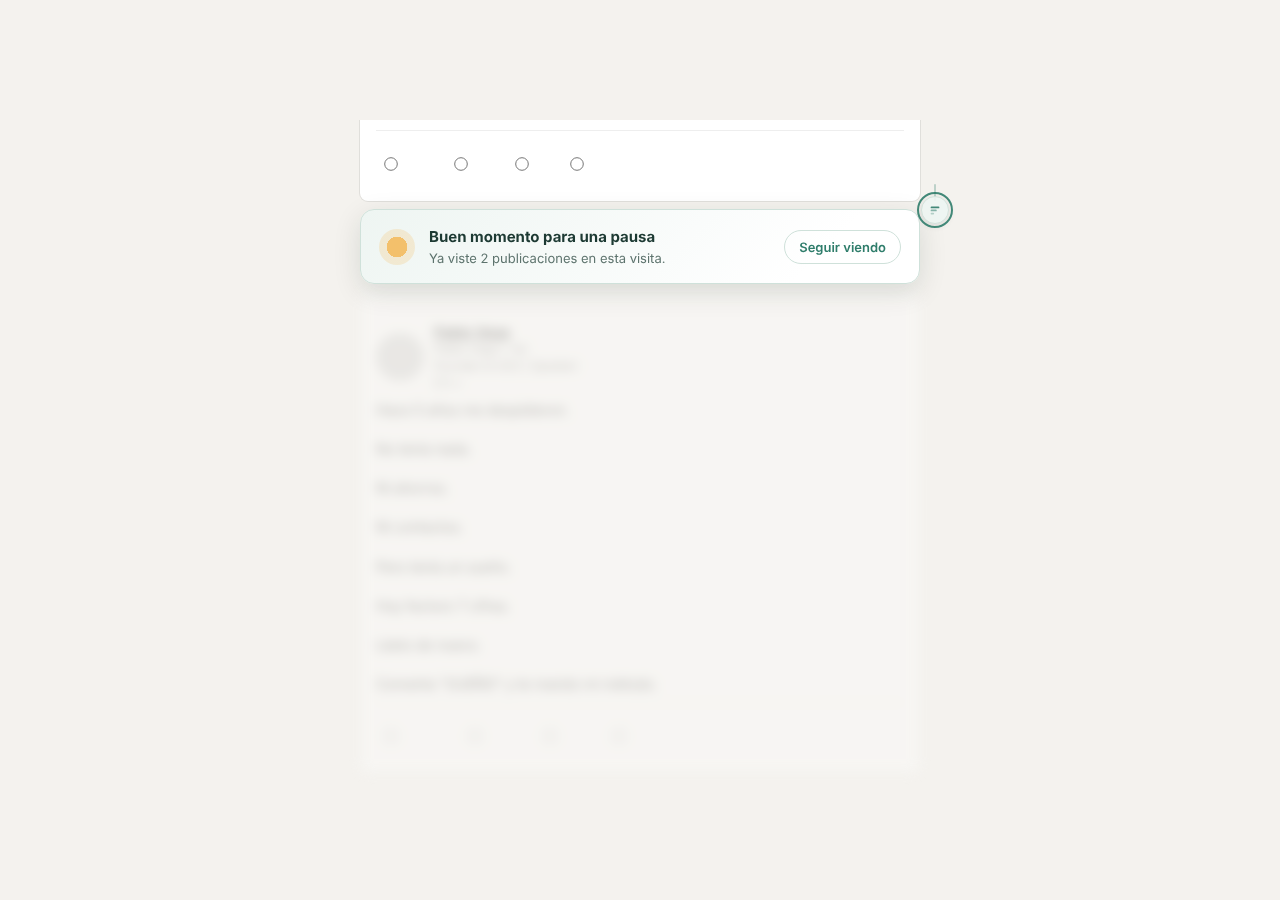
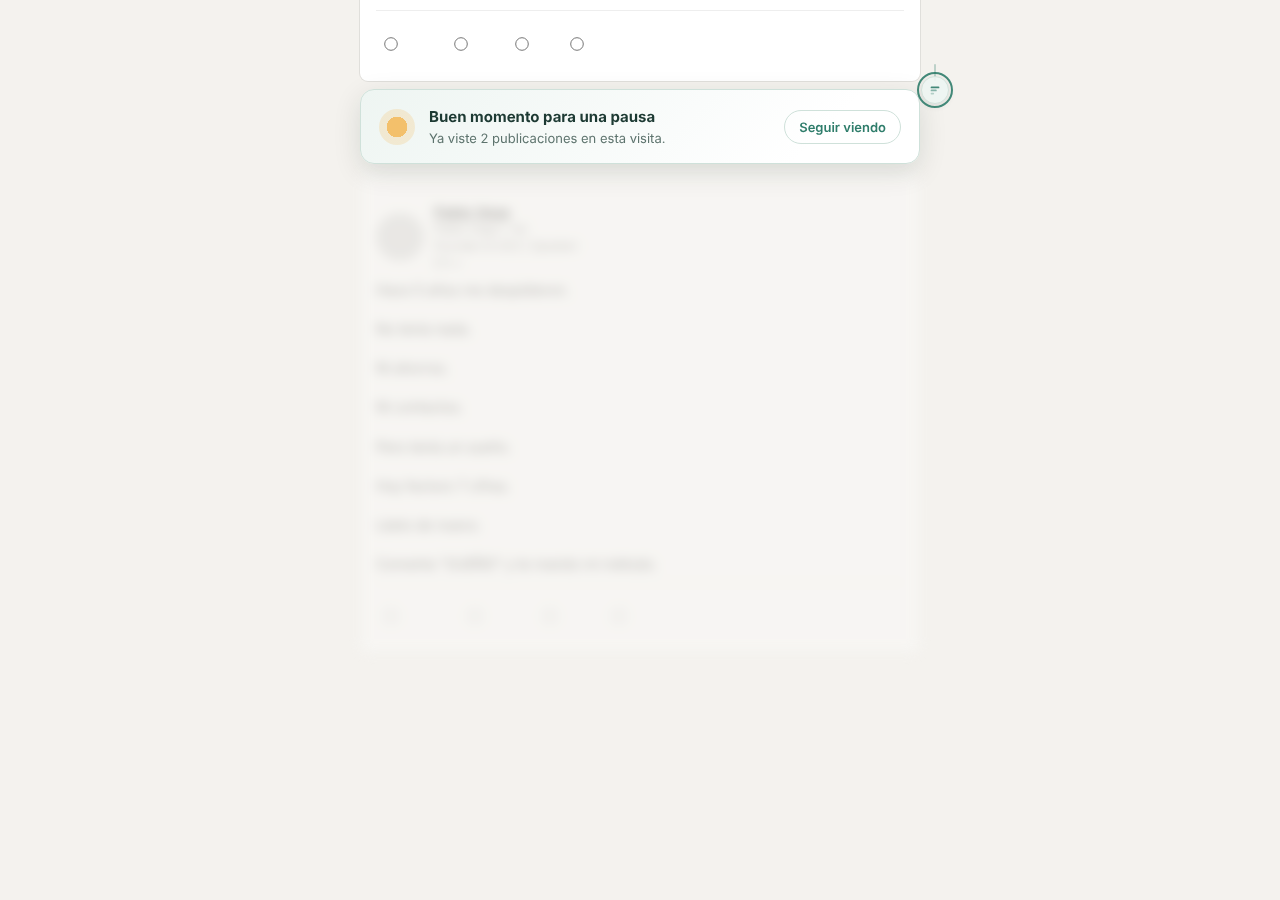
Medir y aplicar efectos sobre la tarjeta, no sobre envoltorios display:contents (v0.2.3)
En el LinkedIn real los envoltorios de cada post usan display: contents:
miden 0x0 y no aceptan opacidad ni filtros. Por eso el botón de Sereno
nunca encontraba un post en pantalla y quedaba oculto, y el atenuado y el
desenfoque no se veían. Ahora se usa la primera caja real (la tarjeta).
La réplica del feed reproduce display: contents.

Claude-Session: https://claude.ai/code/session_01KWnJ7EkcoDG6TupWQwbSNM

diff --git a/src/content/content.js b/src/content/content.js
@@ -101,6 +101,19 @@
     return Array.from(el.querySelectorAll(SEL.postHeading)).filter(isPostHeading);
   }
 
+  /**
+   * El elemento que de verdad se dibuja. Los envoltorios de LinkedIn usan
+   * `display: contents` (no tienen caja: miden 0×0 y no aceptan opacidad ni
+   * filtros), así que para medir y para efectos visuales usamos la tarjeta.
+   */
+  function boxOf(el) {
+    if (!el || getComputedStyle(el).display !== 'contents') return el;
+    const card = el.querySelector('[role="listitem"]');
+    if (card && getComputedStyle(card).display !== 'contents') return card;
+    for (const c of el.querySelectorAll('*')) if (getComputedStyle(c).display !== 'contents') return c;
+    return el;
+  }
+
   function hasContent(el) {
     return (el.textContent || '').trim().length > 0 || !!el.querySelector('img, video, svg, iframe');
   }
@@ -234,6 +247,8 @@
 
   function reset(root) {
     root.classList.remove('sereno-hidden', 'sereno-dim', 'sereno-labeled', 'sereno-walled');
+    const box = boxOf(root);
+    if (box && box !== root) box.classList.remove('sereno-dim', 'sereno-labeled', 'sereno-walled');
     root.removeAttribute(ATTR);
     root.removeAttribute('data-sereno-len');
     root.removeAttribute('data-sereno-visible');
@@ -339,10 +354,10 @@
       return;
     }
     if (result.verdict === 'dim') {
-      root.classList.add('sereno-dim');
+      boxOf(root).classList.add('sereno-dim');
       makeStrip(root, result, 'dim');
     } else if (result.verdict === 'label') {
-      root.classList.add('sereno-labeled');
+      boxOf(root).classList.add('sereno-labeled');
       makeStrip(root, result, 'label');
     }
 
@@ -404,7 +419,7 @@
     const line = TOP + (vh - TOP) * 0.4;
     const candidates = Array.from(document.querySelectorAll('[data-sereno-author]')).filter((p) => {
       const v = p.getAttribute(ATTR);
-      return v && v !== 'hide' && !p.classList.contains('sereno-walled');
+      return v && v !== 'hide' && !boxOf(p).classList.contains('sereno-walled');
     });
     // "Arriba de todo" = ningún contenedor del feed está desplazado. LinkedIn
     // hace scroll en un contenedor interno, así que window.scrollY no alcanza.
@@ -412,7 +427,7 @@
     let best = null;
     let bestDist = Infinity;
     for (const p of candidates) {
-      const r = p.getBoundingClientRect();
+      const r = boxOf(p).getBoundingClientRect();
       if (r.height === 0 || r.bottom <= TOP || r.top >= vh) continue;
       // Arriba de todo de la página, se está leyendo el primer post visible.
       if (atTop) return p;
@@ -445,7 +460,7 @@
       dock.btn.setAttribute('aria-label', t('menuOpen', [name]));
       dock.btn.title = t('menuOpen', [name]);
     }
-    const r = post.getBoundingClientRect();
+    const r = boxOf(post).getBoundingClientRect();
     const vh = window.innerHeight;
     const SIZE = 28;
     // Al costado derecho de la tarjeta, en el margen; si no hay lugar, adentro.
@@ -561,7 +576,8 @@
           (entries) => {
             for (const en of entries) {
               if (!en.isIntersecting) continue;
-              const h = en.target.getAttribute('data-sereno-hash');
+              const holder = en.target.closest('[data-sereno-hash]');
+              const h = holder && holder.getAttribute('data-sereno-hash');
               if (h && !seenBefore.has(h)) seenQueue.add(h);
               io.unobserve(en.target);
             }
@@ -584,11 +600,11 @@
     if (root.hasAttribute('data-sereno-visible')) return;
     root.setAttribute('data-sereno-visible', '1');
     root.setAttribute('data-sereno-hash', hash);
-    if (io) io.observe(root);
+    if (io) io.observe(boxOf(root));
 
     if (caught.card) {
       // Todo lo que viene después de la tarjeta queda en pausa.
-      root.classList.add('sereno-walled');
+      boxOf(root).classList.add('sereno-walled');
       return;
     }
     const cfg = settings.caughtUp;
@@ -601,10 +617,10 @@
     if (caught.oldRun.length >= OLD_RUN) {
       const first = caught.oldRun[0];
       placeCard(first, 'old', caught.visible - caught.oldRun.length);
-      for (const r of caught.oldRun) r.classList.add('sereno-walled');
+      for (const r of caught.oldRun) boxOf(r).classList.add('sereno-walled');
     } else if (cfg.limit > 0 && caught.visible > cfg.limit) {
       placeCard(root, 'limit', cfg.limit);
-      root.classList.add('sereno-walled');
+      boxOf(root).classList.add('sereno-walled');
     }
   }
 

diff --git a/tests/fixtures/feed-2026.html b/tests/fixtures/feed-2026.html
@@ -14,6 +14,8 @@
   html, body { height: 100%; overflow: hidden; }
   main { height: 100vh; overflow-y: auto; }
   .k4dfeed { padding-bottom: 900px; }
+  /* Como el LinkedIn real: los envoltorios no generan caja propia */
+  [data-lazy-mount-id], [data-display-contents="true"] { display: contents; }
   body { margin:0; background:#f4f2ee; font: 14px/1.4 -apple-system, Segoe UI, Roboto, sans-serif; color:#1d1d1d; }
   .k4dfeed { max-width: 560px; margin: 24px auto; }
   .k4dcard { background:#fff; border-radius:8px; box-shadow:0 0 0 1px rgba(0,0,0,.08); margin-bottom:8px; padding:12px 16px; }

diff --git a/README.md b/README.md
@@ -55,6 +55,7 @@ Los textos se editan en `scripts/strings.mjs`, nunca a mano en `_locales/`. Los 
 ## Cuando LinkedIn cambie su HTML
 Se va a romper cada tanto, es inevitable. Desde noviembre de 2026 LinkedIn usa clases generadas (`k4dl5v`, `k4dayy`…) que cambian con cada versión, así que Sereno **no las usa**. Se apoya en lo más estable:
 - el título oculto de cada publicación ("Publicación en el feed"),
+- los envoltorios de LinkedIn usan `display: contents` (no tienen caja): para medir y para efectos visuales se usa la tarjeta interna (`boxOf`),
 - `data-testid="expandable-text-box"` para el texto,
 - `aria-label` de los botones y textos visibles ("Promocionado", "sigue esta página", "614 reacciones").
 
